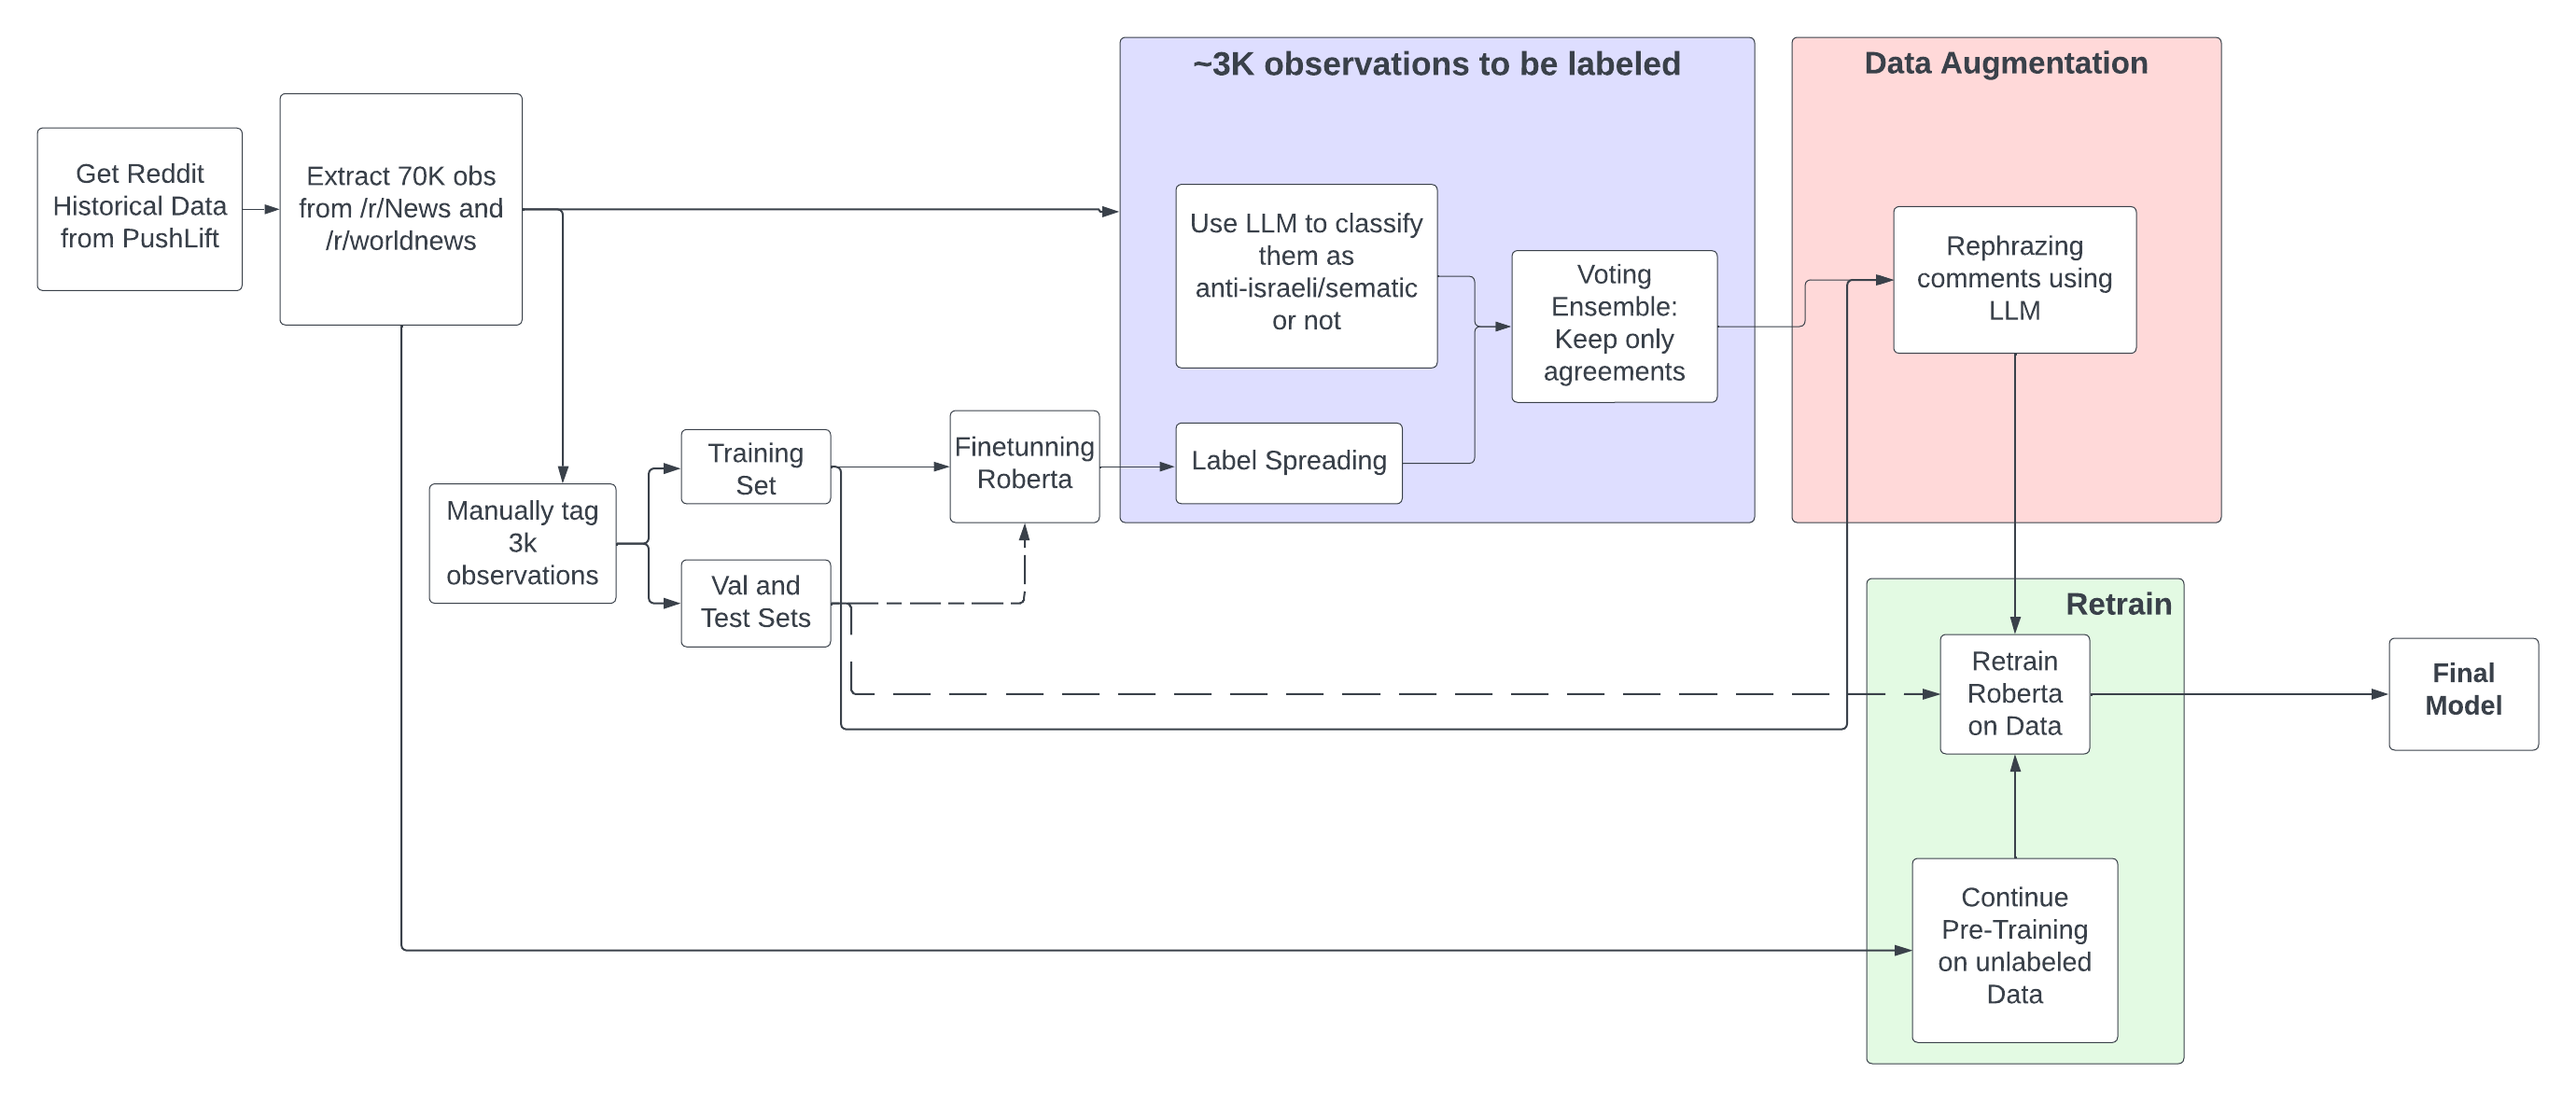
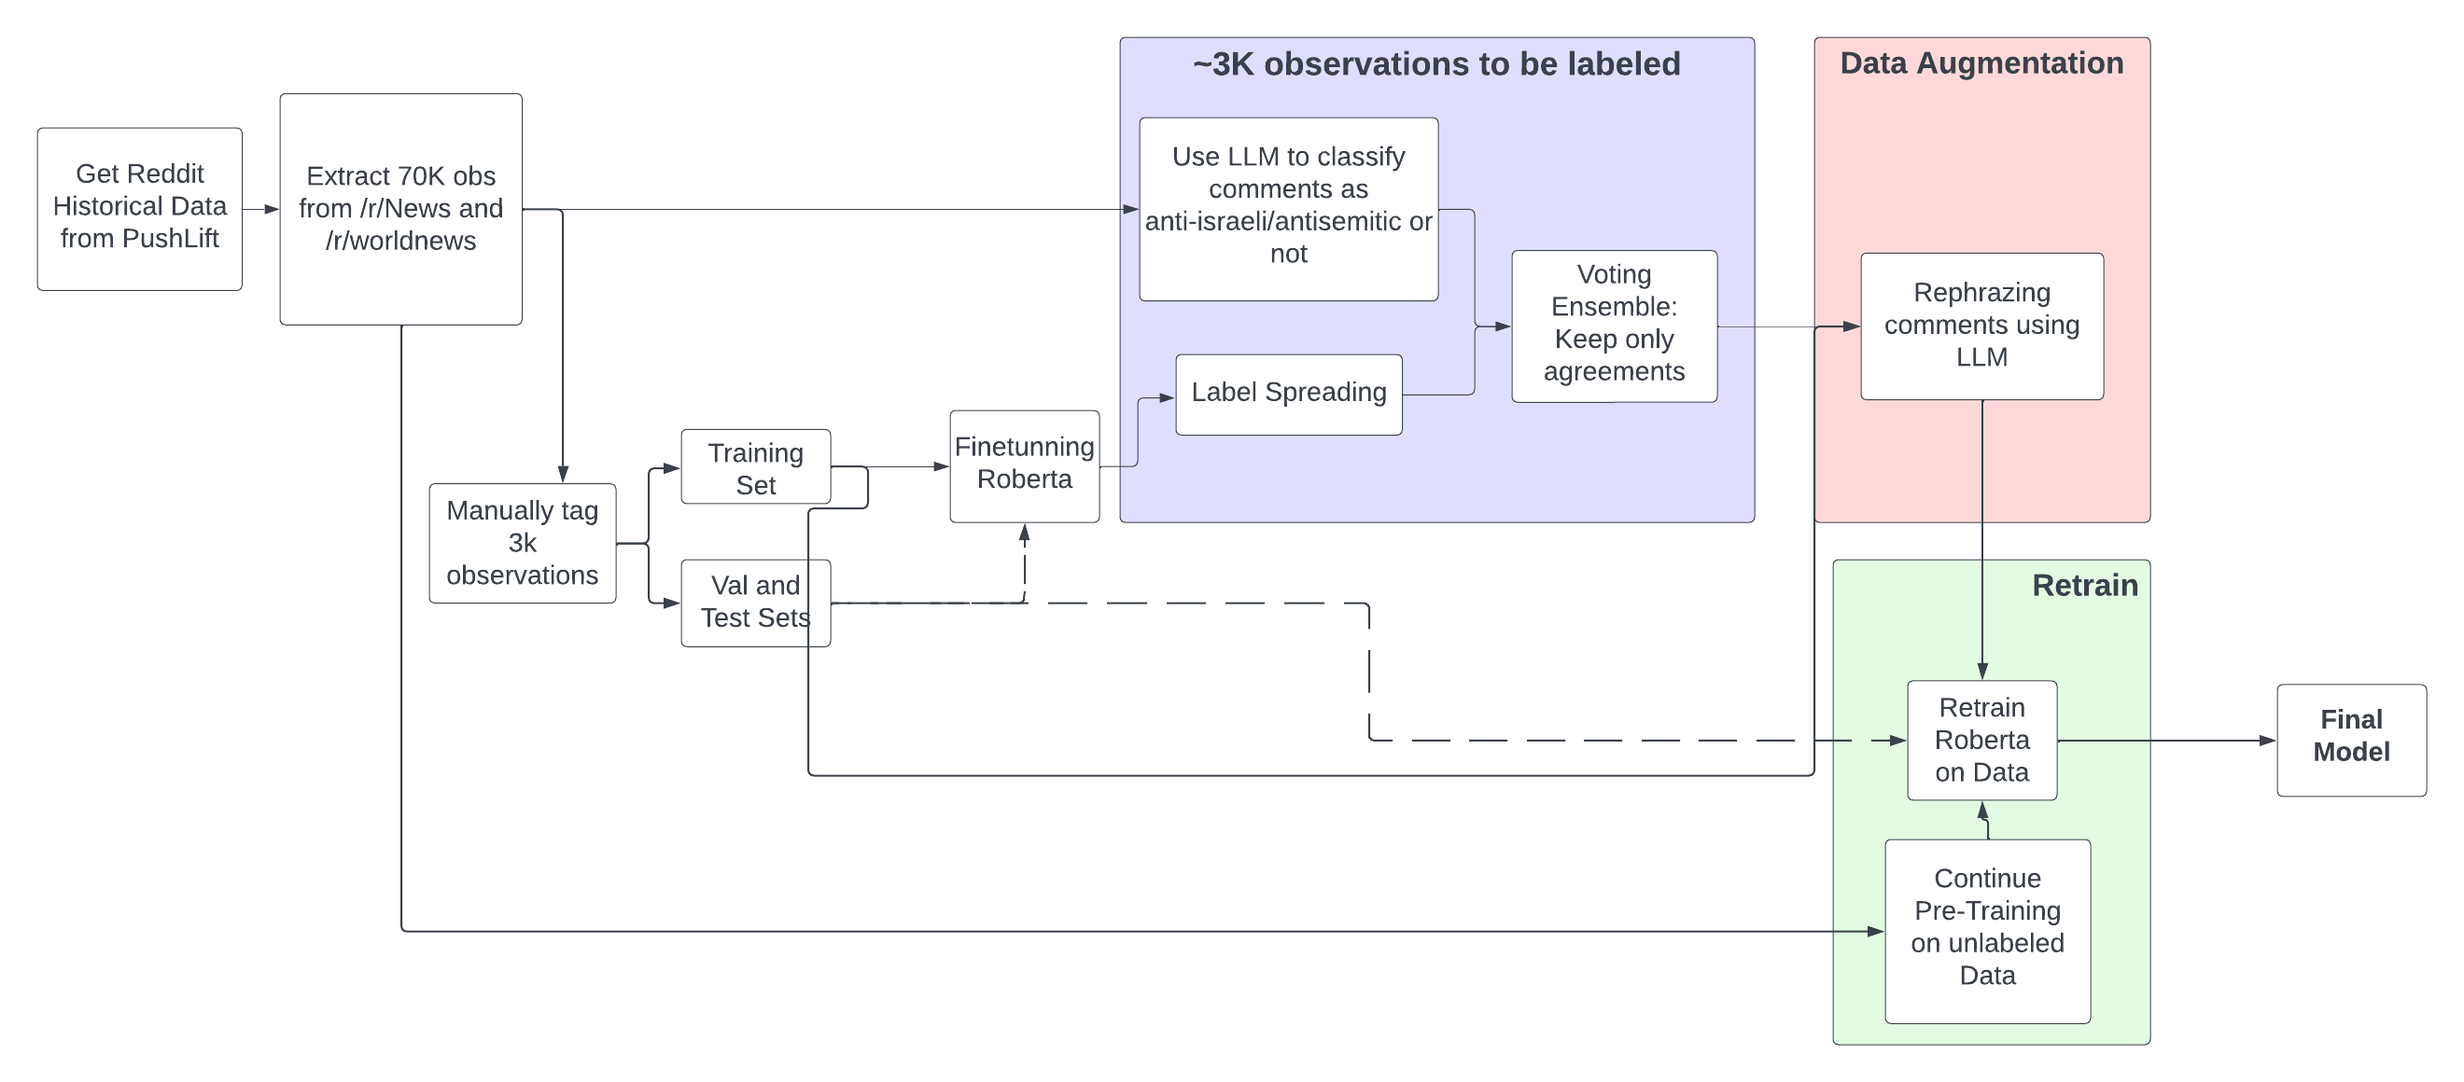
MOD: Change figure

diff --git a/readme.md b/readme.md
@@ -8,7 +8,7 @@ In this project I build a classifier to detect anti-Israeli and anti-semitic com
 ## Modeling
 The modeling procedure is depicted in the following figure.
 ![Modeling](https://github.com/DavidHarar/Reddit/blob/main/plots/modeling.png)
-
+For LLM I used the [Zephyr-7b-alpha](https://huggingface.co/HuggingFaceH4/zephyr-7b-alpha). 
 
 
 ## Downvote
